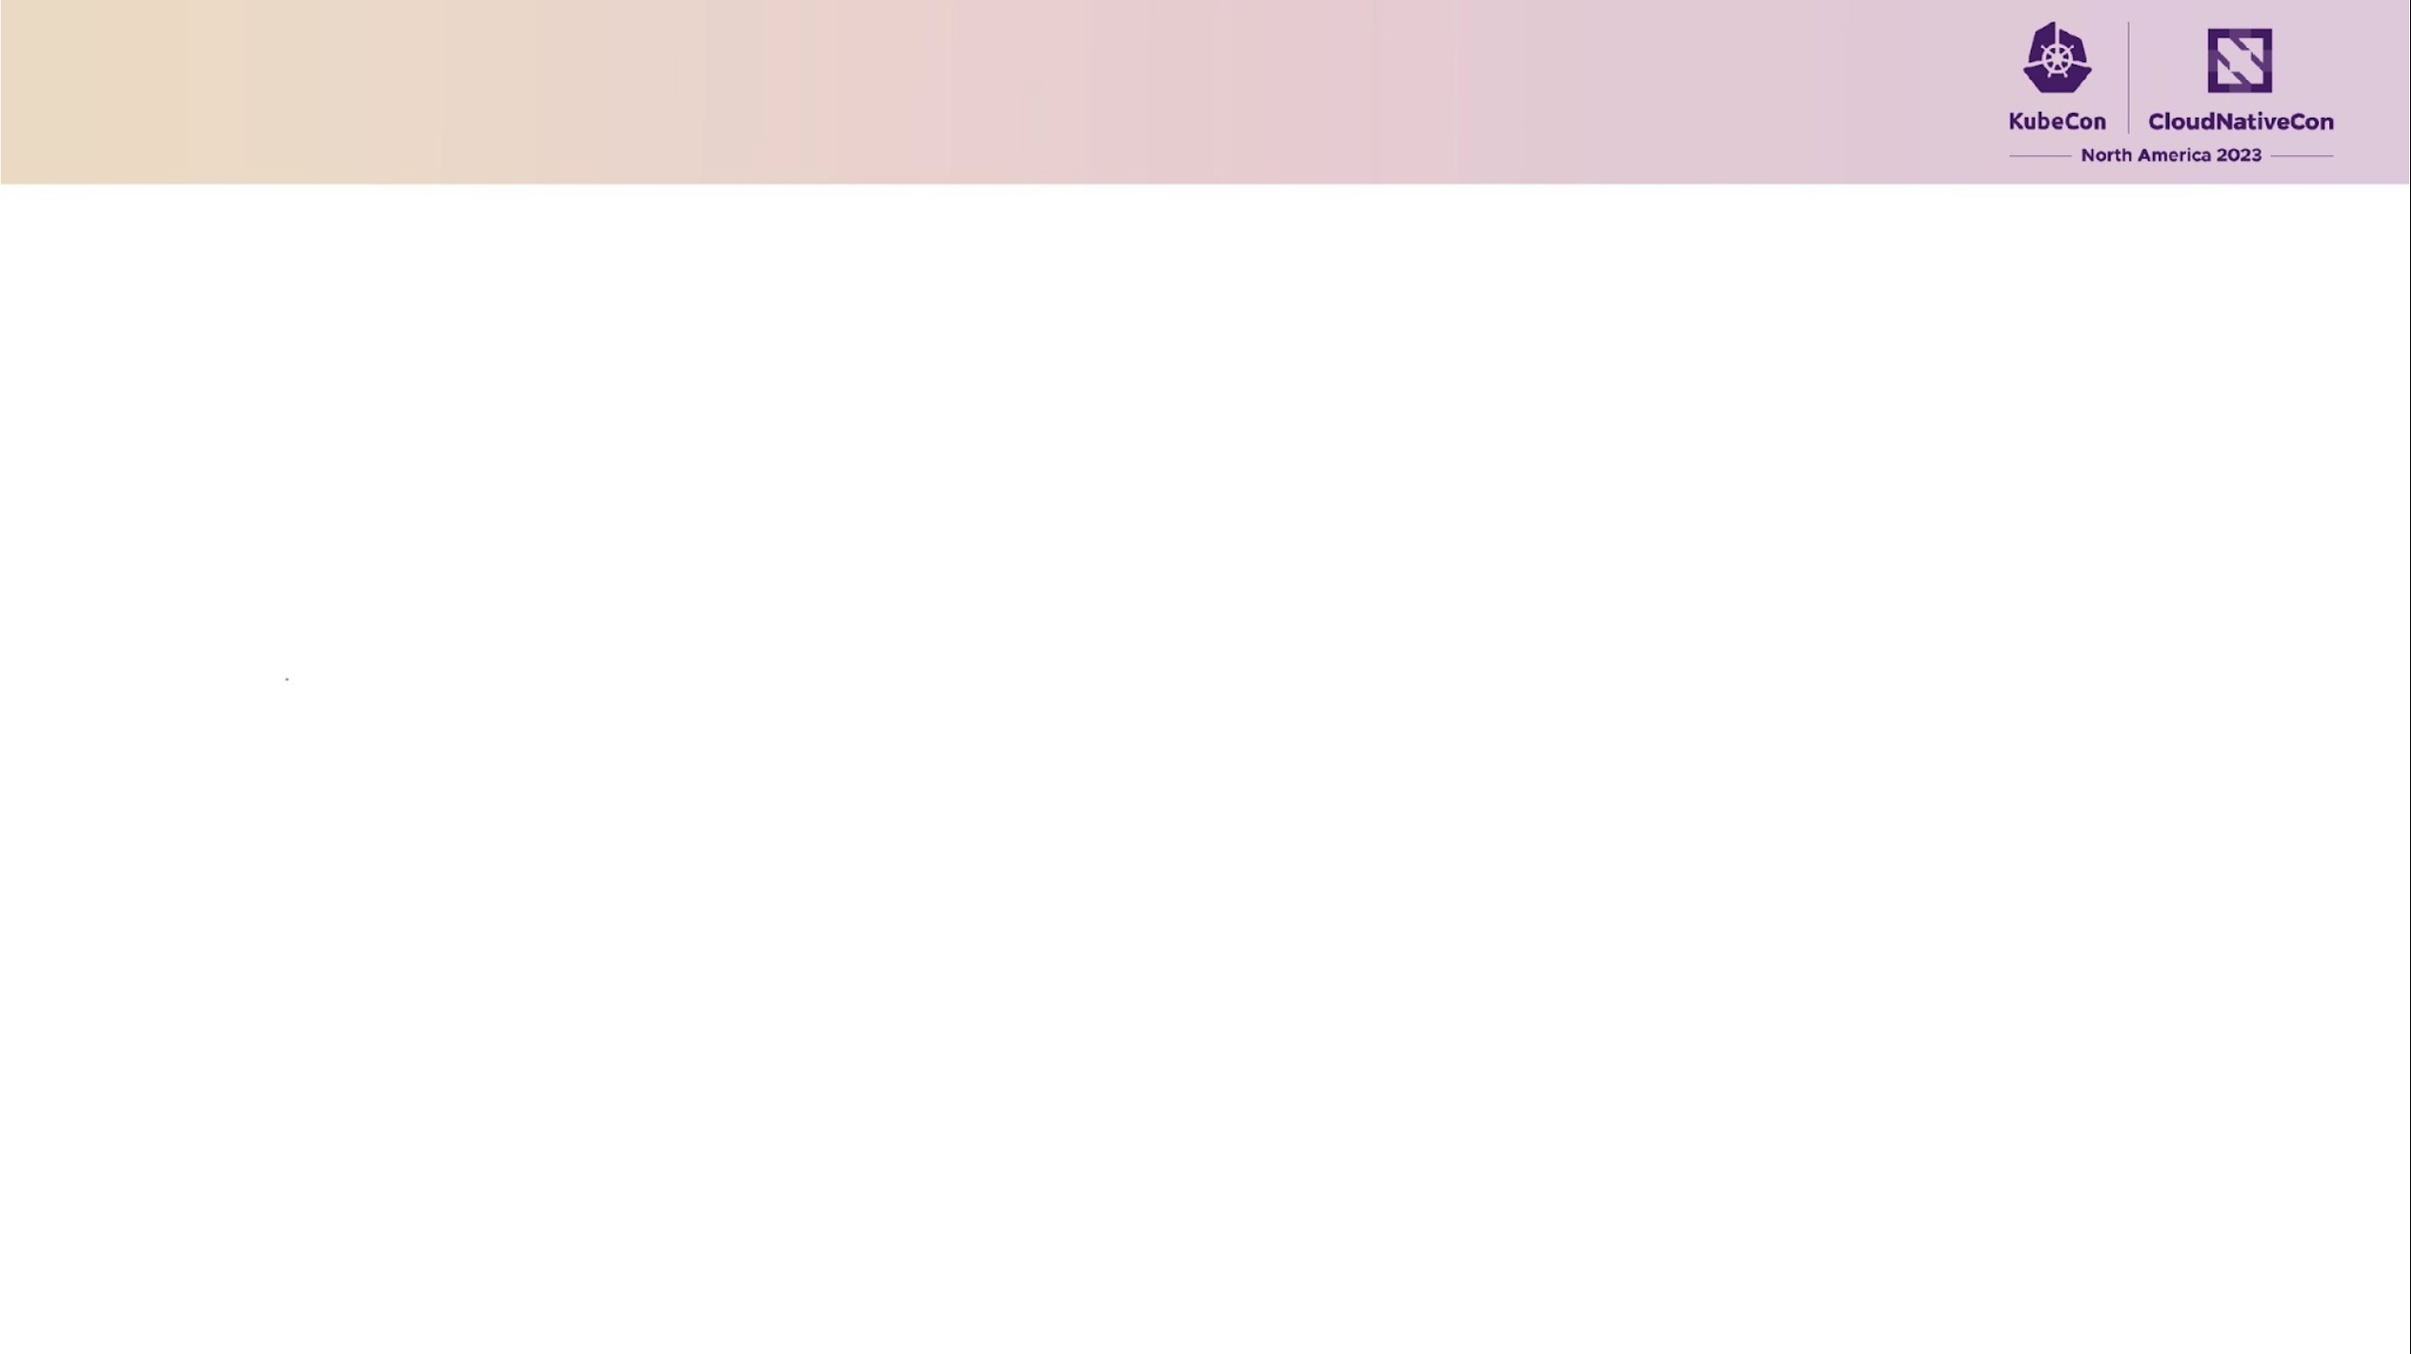
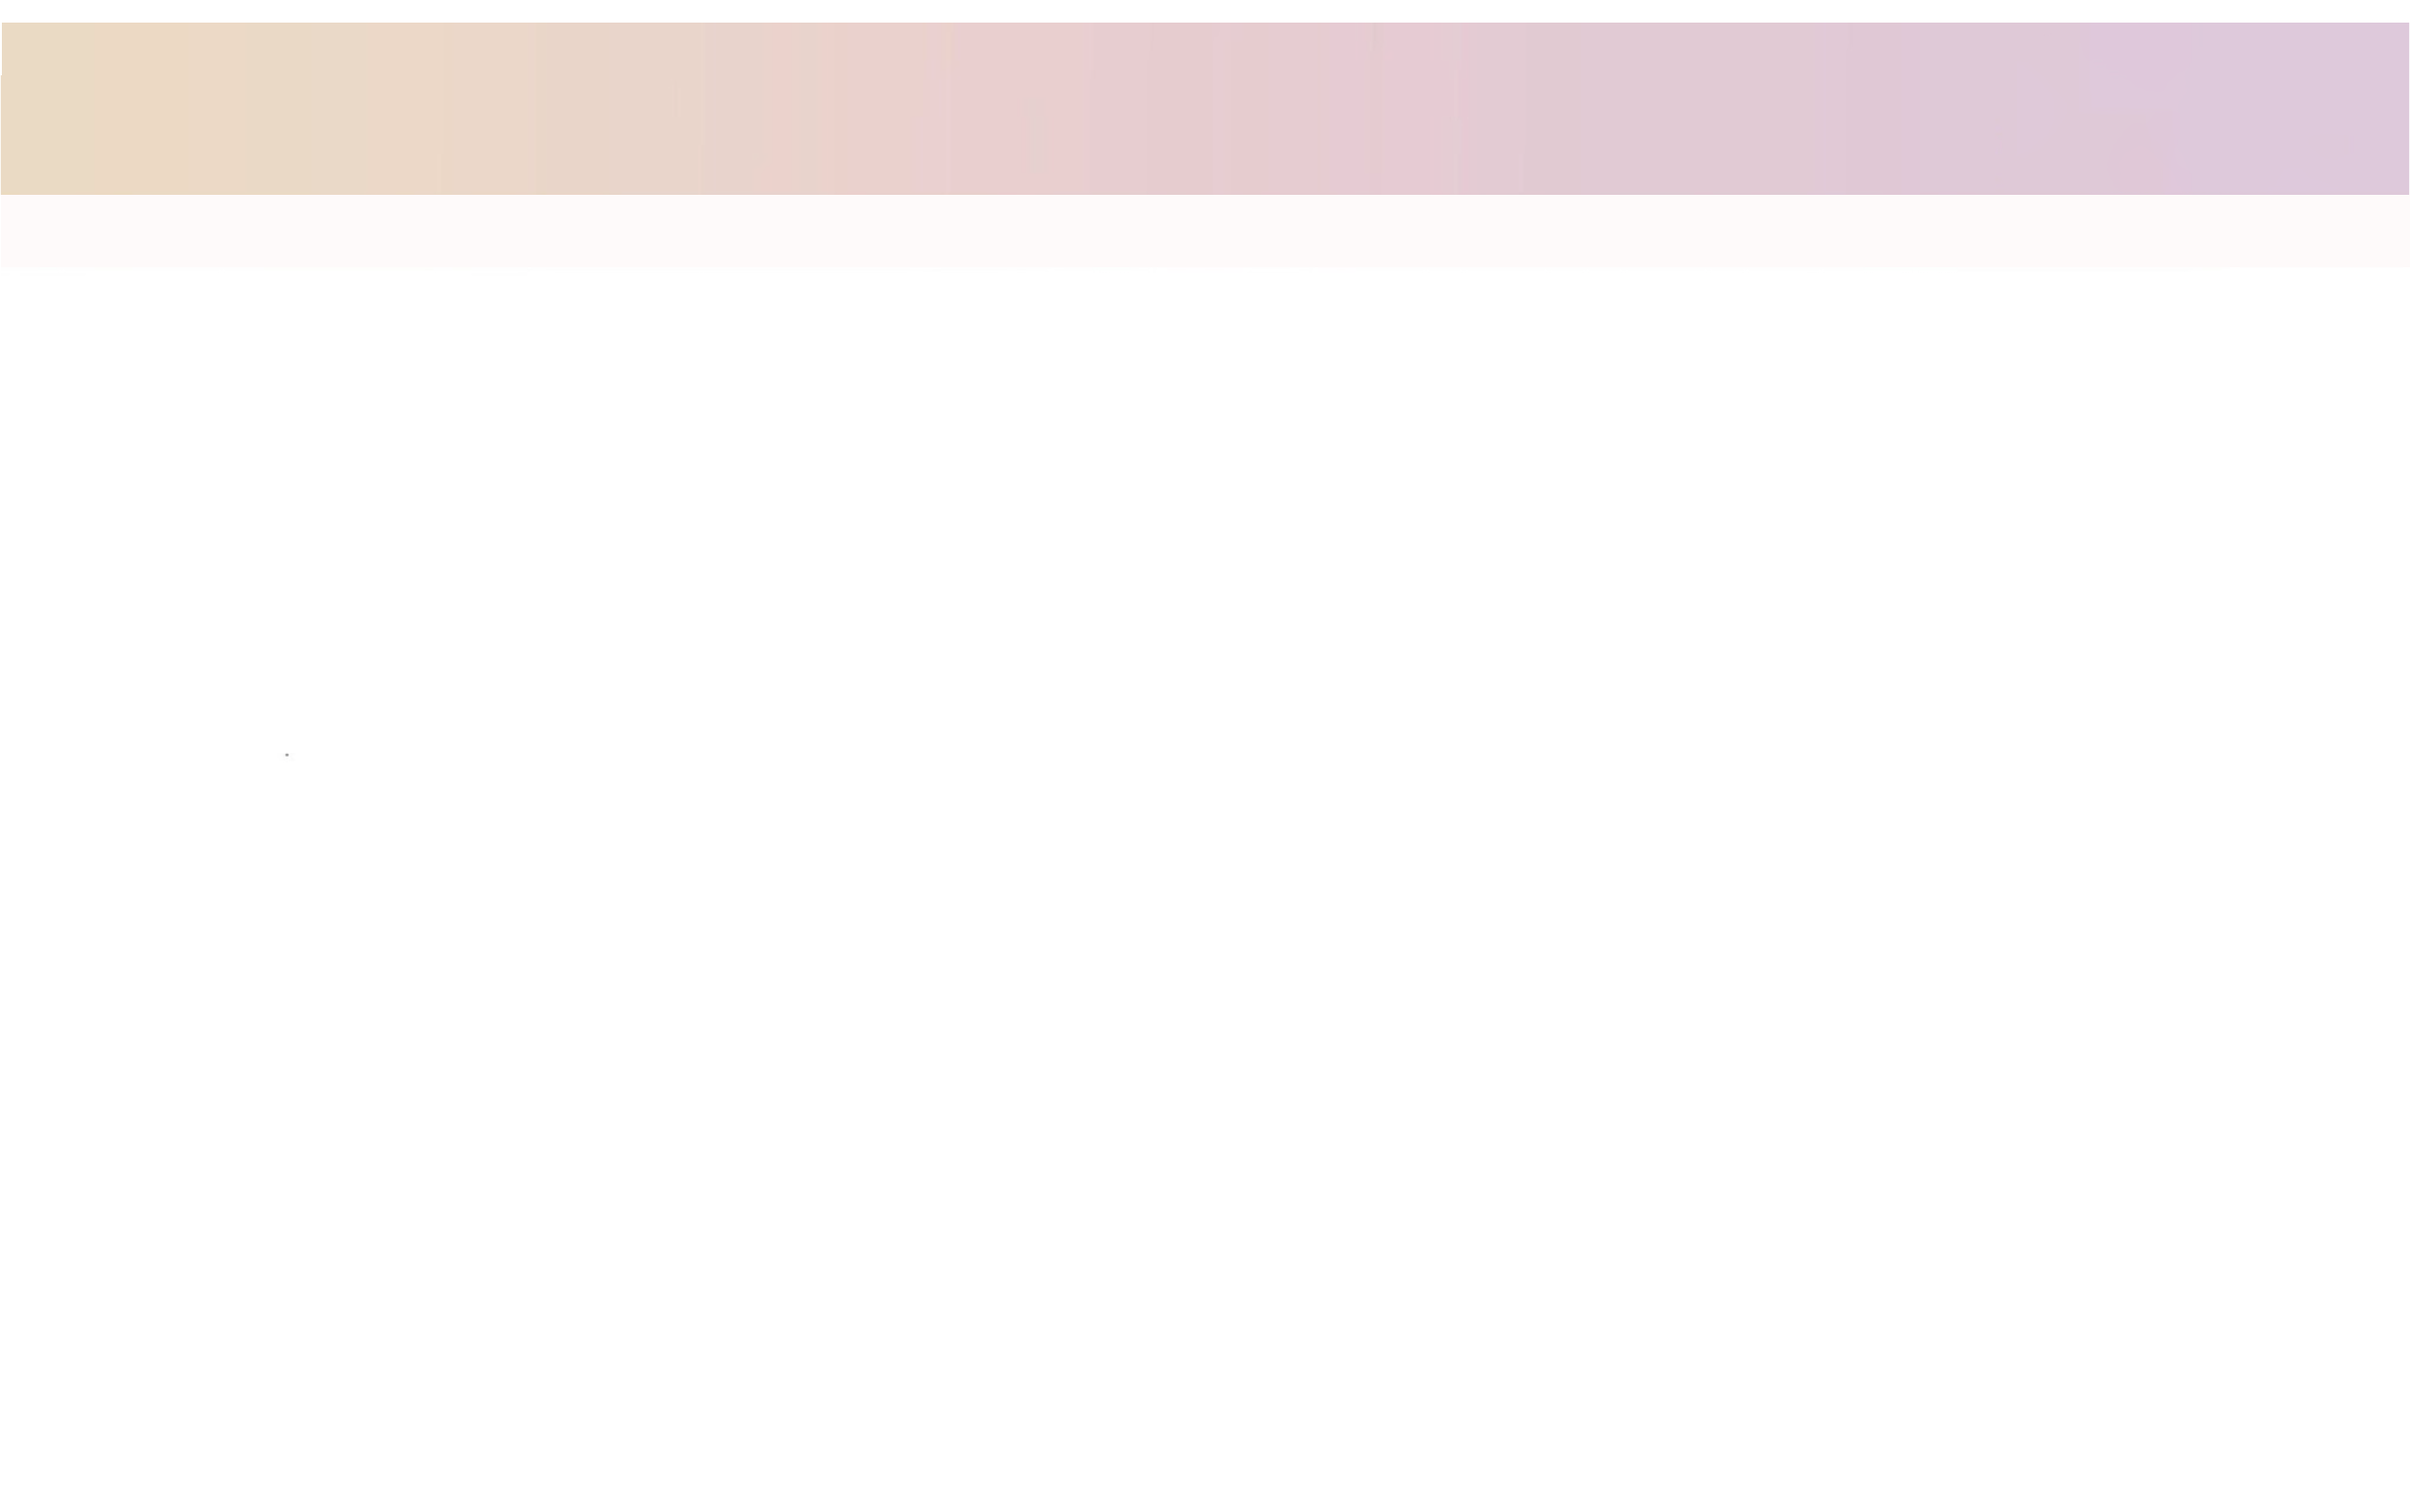
wip

Changed region(s): [[0.0, 0.0, 1.0, 0.1529]]

diff --git a/presentation/index.html b/presentation/index.html
@@ -9,6 +9,7 @@
 		<link rel="stylesheet" href="dist/reset.css">
 		<link rel="stylesheet" href="dist/reveal.css">
 		<link rel="stylesheet" href="dist/theme/robotlung.css" id="theme">
+		<link rel="stylesheet" href="css/reveal-override.css">
 		<!-- Theme used for syntax highlighted code -->
 		<link rel="stylesheet" href="plugin/highlight/monokai.css">
 	</head>
@@ -17,6 +18,7 @@
 		<div class="reveal">			
 			<div class="slides">
 				<section data-background="assets/title_background.png">
+					<img src="assets/hpc-ai-logo.svg" class="conf-logo">
 					<h3 class="title">Keep HPC Running</h3>
 					<h4 class="subtitle">An SRE's Guide to Supporting GPUs on Kubernetes</h4>
 					<p>Chris Dutra</p>

diff --git a/presentation/css/reveal-override.scss b/presentation/css/reveal-override.scss
@@ -1,0 +1,16 @@
+body::after{
+    content: " ";
+    position: fixed;
+    bottom: 0;
+    left: 0;
+    width: 100%;
+    height: 100%;
+    content: url(../assets/hpc-ai-logo.svg);
+    /*background-image: url(../img/robotlung.png);*/
+    //background-image: url(../img/robotlung.png);
+    //background-repeat: no-repeat;
+    //background-position: center;
+    //background-size: 50%;
+    //opacity: 0.1;
+    z-index: -1;
+}

diff --git a/presentation/css/theme/source/robotlung.scss b/presentation/css/theme/source/robotlung.scss
@@ -268,8 +268,16 @@ body {
 .reveal section img {
   margin: 15px 0px;
   background: rgba(255, 255, 255, 0.12);
-  border: 4px solid #363636;
+  border: none;
   box-shadow: 0 0 10px rgba(0, 0, 0, 0.15); }
+
+.reveal section img.conf-logo {
+  margin-top: 0px;
+  margin-right: 0px;
+  height: 100px;
+  width: auto;
+  position: absolute;
+}
 
 .reveal section img.plain {
   border: 0;

diff --git a/presentation/dist/theme/robotlung.css b/presentation/dist/theme/robotlung.css
@@ -312,8 +312,16 @@ body {
 .reveal section img {
   margin: 15px 0px;
   background: rgba(255, 255, 255, 0.12);
-  border: 4px solid #363636;
+  border: none;
   box-shadow: 0 0 10px rgba(0, 0, 0, 0.15);
+}
+
+.reveal section img.conf-logo {
+  margin-top: 0px;
+  margin-right: 0px;
+  height: 100px;
+  width: auto;
+  position: absolute;
 }
 
 .reveal section img.plain {
